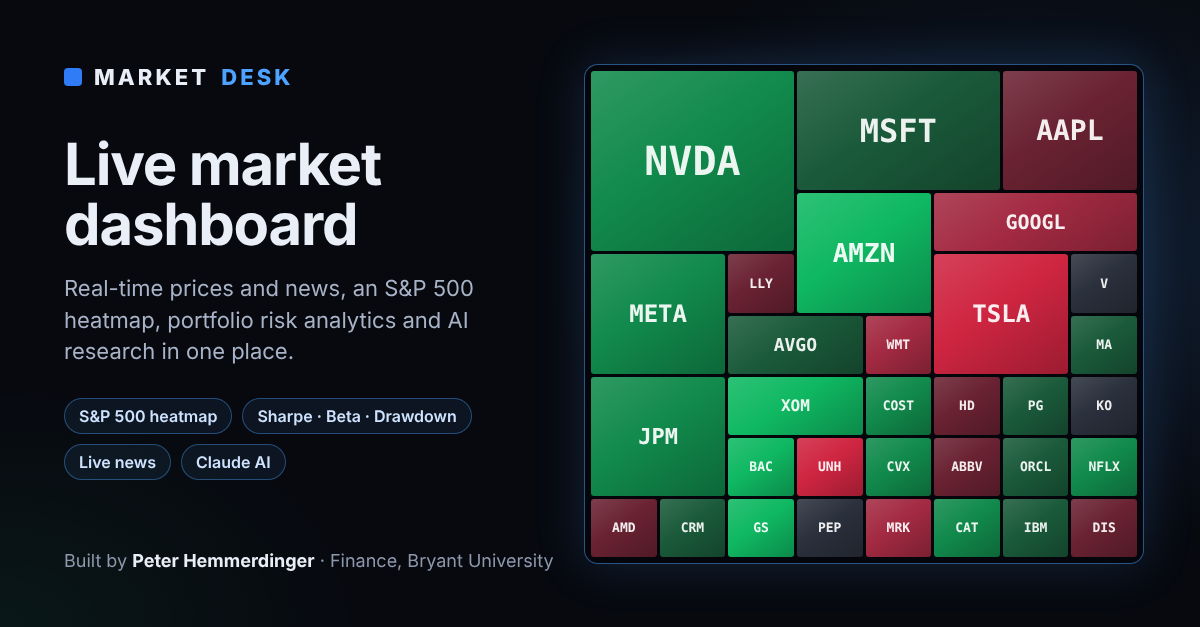
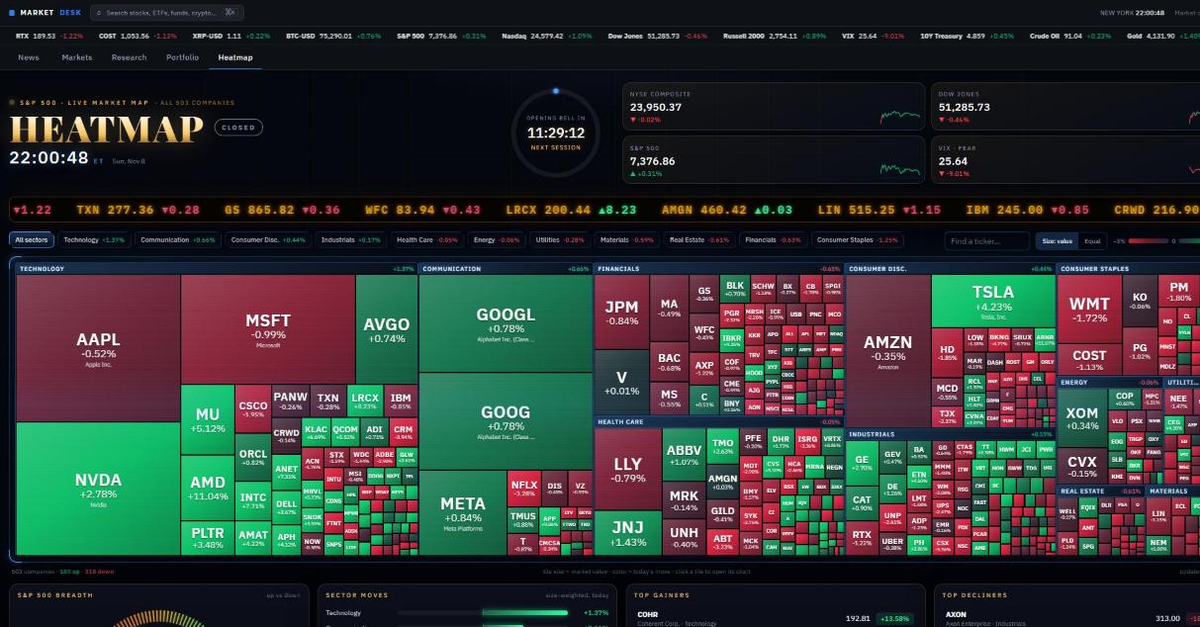
Link preview: real zoomed-out screenshot of the live heatmap
Claude-Session: https://claude.ai/code/session_01XvLryUmBraoSGe2D9vnpty

diff --git a/public/index.html b/public/index.html
@@ -18,7 +18,7 @@ if(!o)document.documentElement.classList.add("viewonly");})();
 <meta property="og:title" content="Market Desk · Live market dashboard">
 <meta property="og:description" content="A live markets dashboard built by Peter Hemmerdinger, a finance student at Bryant University: real-time prices and news, an S&amp;P 500 heatmap, portfolio risk analytics and AI research tools.">
 <meta property="og:url" content="https://my-terminal-28tq.onrender.com/">
-<meta property="og:image" content="https://my-terminal-28tq.onrender.com/og.png">
+<meta property="og:image" content="https://my-terminal-28tq.onrender.com/og.png?v=2">
 <meta property="og:image:width" content="1200">
 <meta property="og:image:height" content="627">
 <meta property="og:image:alt" content="Market Desk: live S&amp;P 500 heatmap, portfolio risk analytics and market news">
